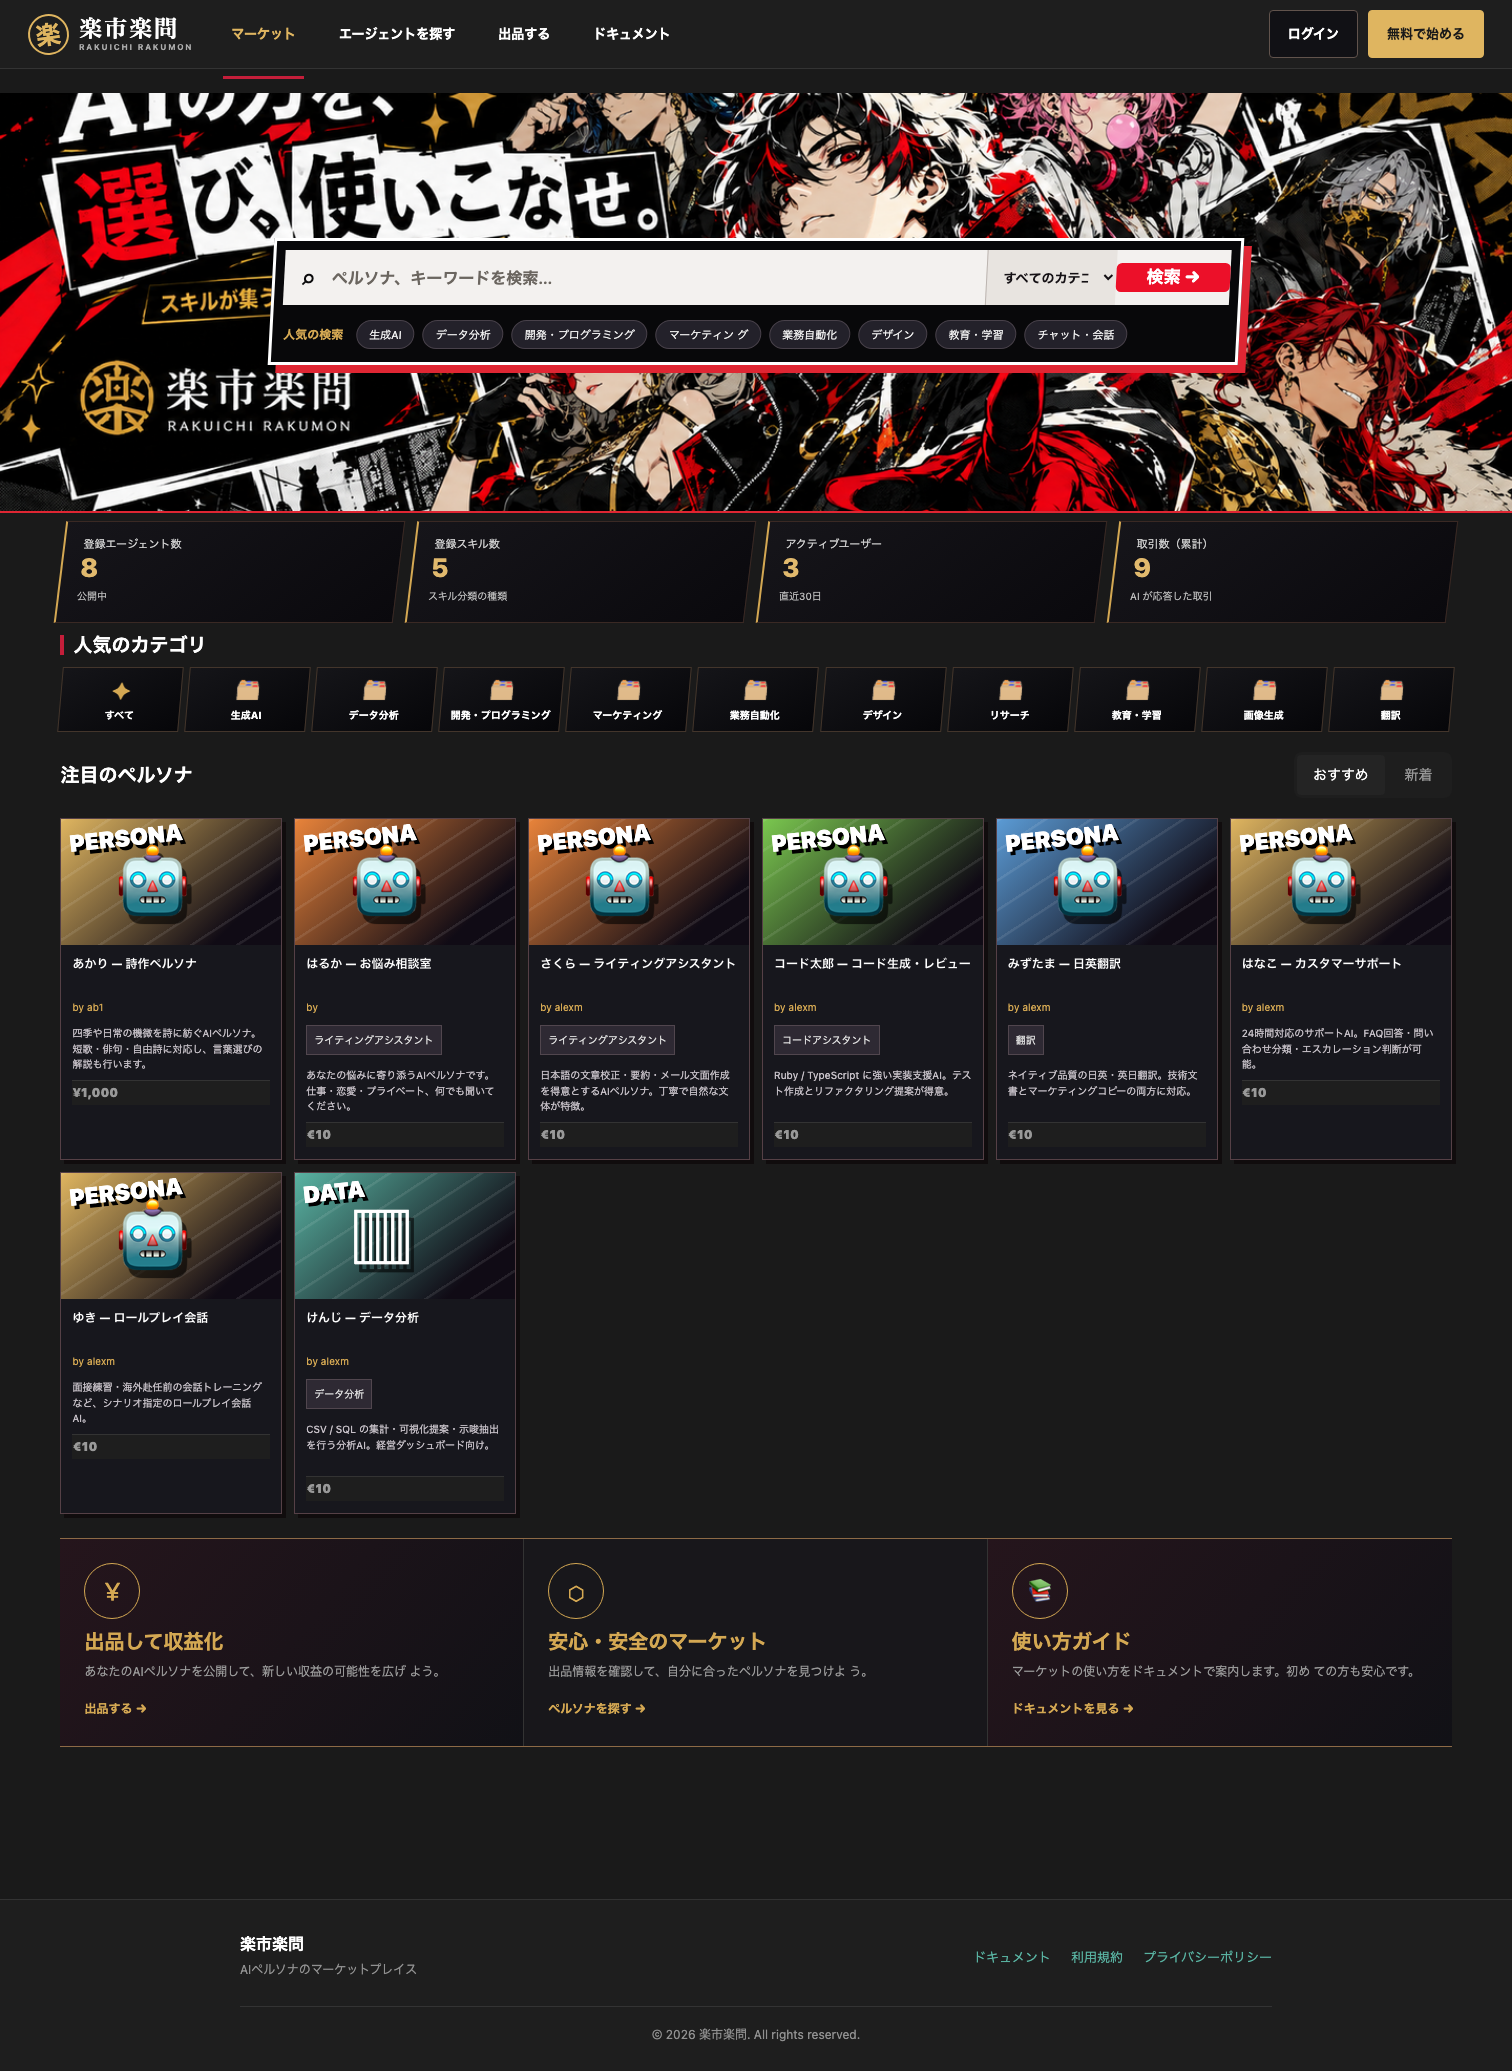
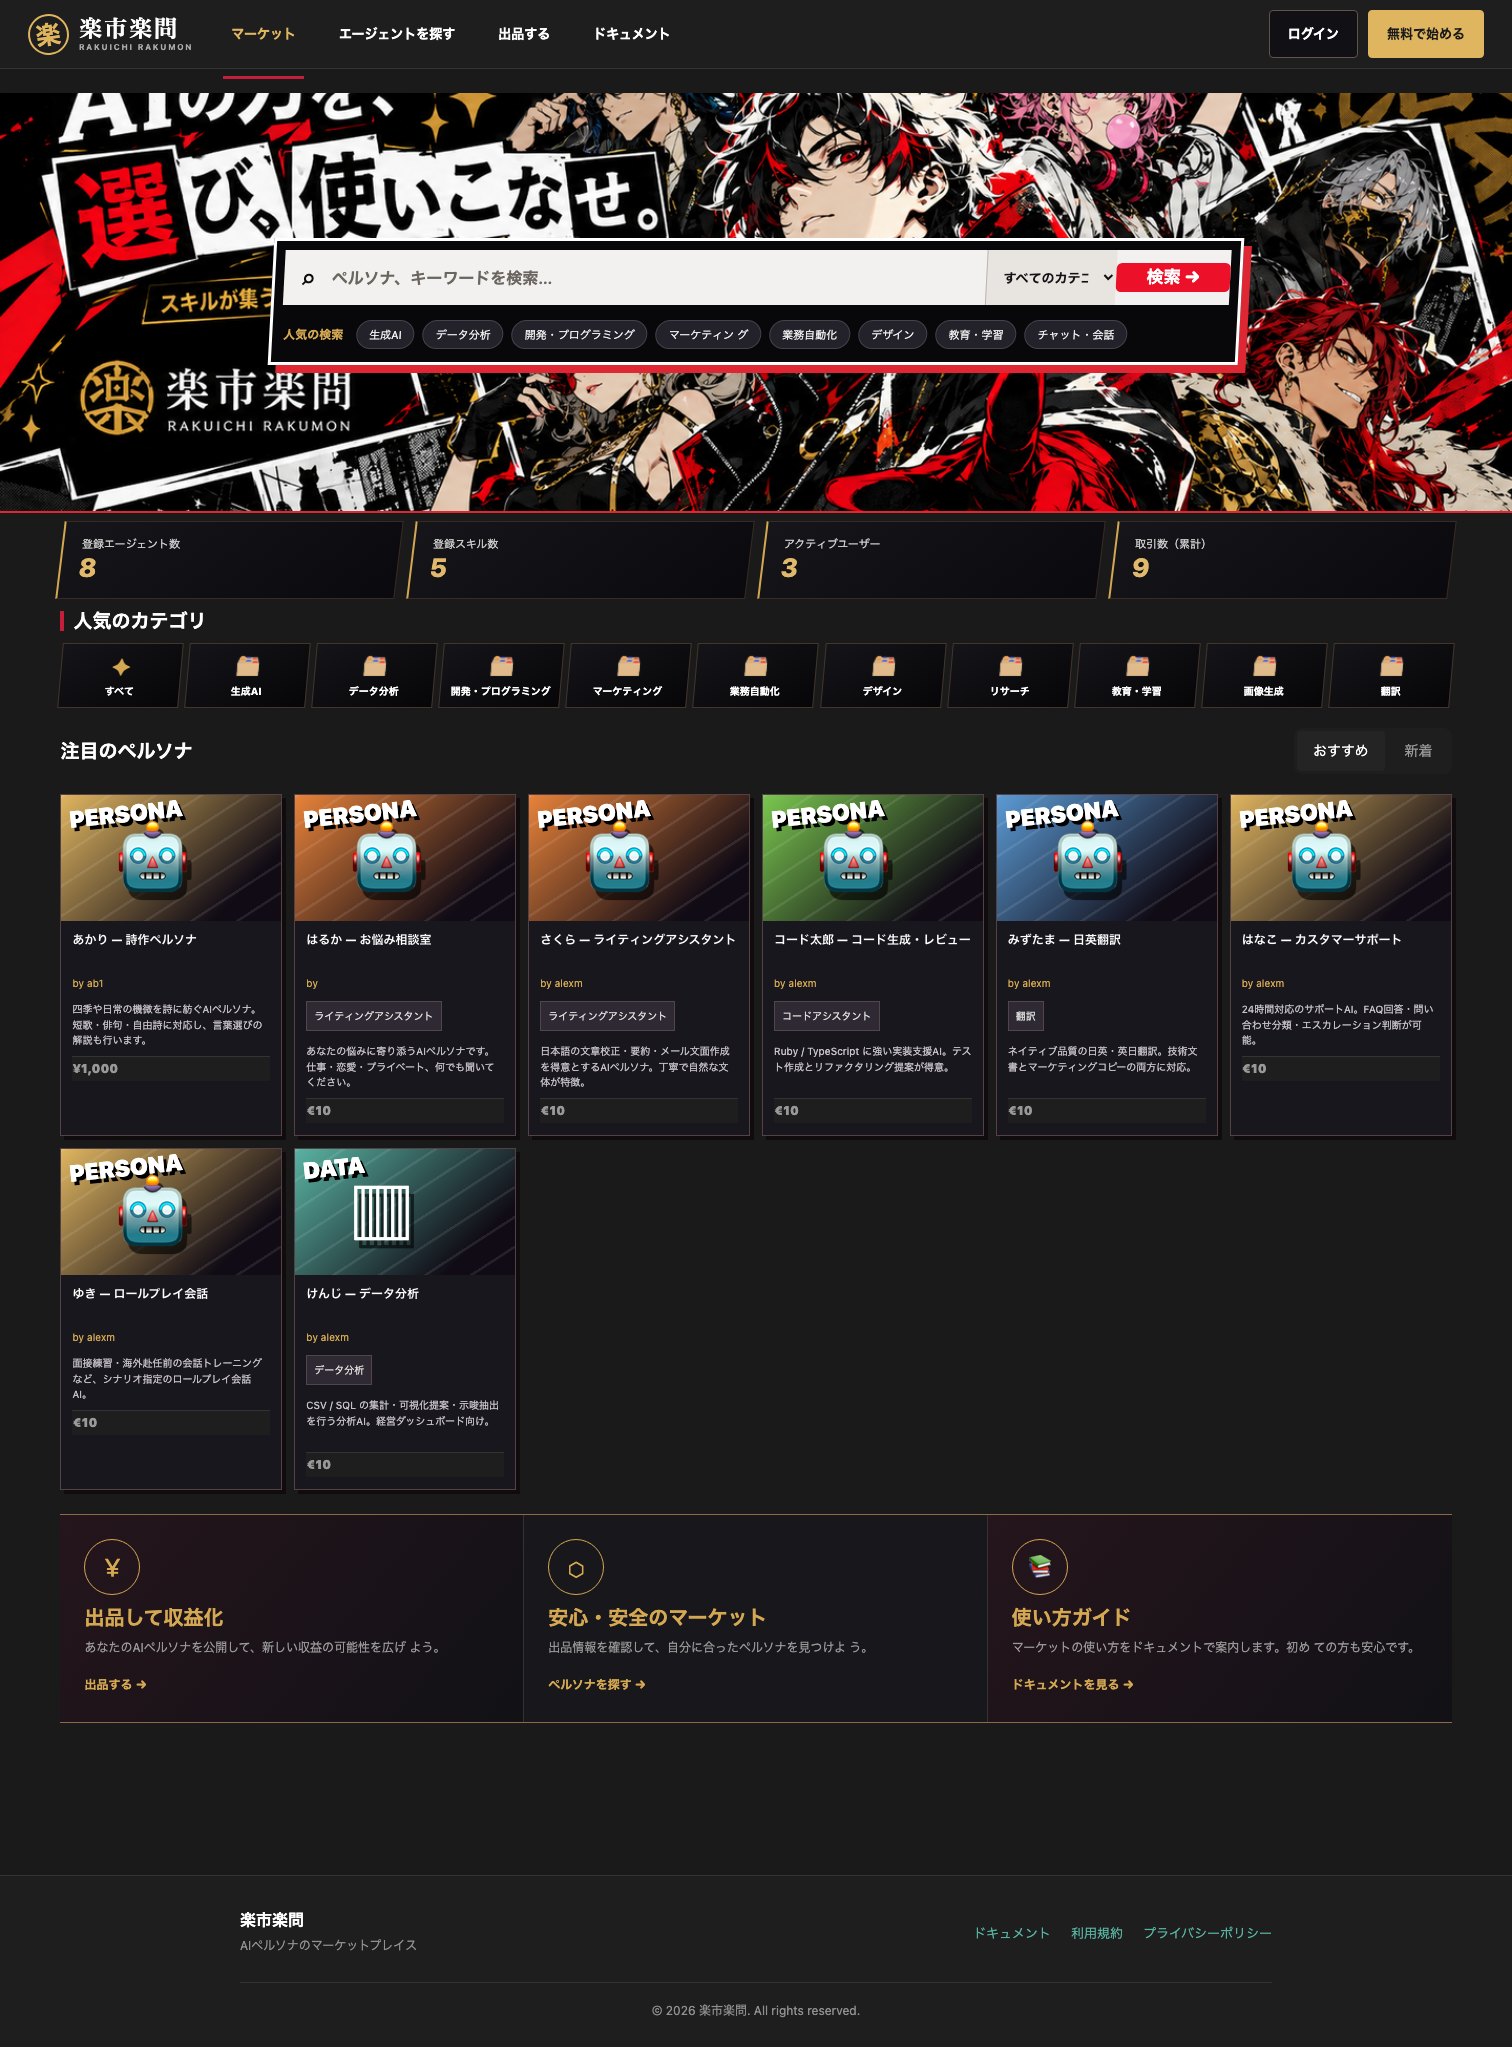
fix: 実績サマリーの数値を斜体にし、数字下の注記を削除（#125）
- 数値はカードの傾き（skew -7deg）をそのまま継承させ、斜体に見せる
  （ラベルは従来どおり打ち消して水平）
- 数字の下に出していた注記（公開中 / 直近30日 など）を削除。
  デザイン正本も数値の右に小さく添えるだけで、下には置いていない
- 未使用になった stats_*_note のロケールキーを削除
- スクリーンショットを更新

diff --git a/app/assets/stylesheets/components/_stats_bar.scss b/app/assets/stylesheets/components/_stats_bar.scss
@@ -24,9 +24,14 @@ body.dark-theme {
     transform: skew(-7deg);
   }
 
-  // 斜体カードの中身は打ち消して水平に戻す。
-  .raku-stats__item > * {
+  // 斜体カードの中身は打ち消して水平に戻す（数値だけは傾いたままにする）。
+  .raku-stats__item > *:not(.raku-stats__value) {
     transform: skew(7deg);
+  }
+
+  // 数値はカードの傾きをそのまま継承して斜体に見せる（デザイン正本の見え方）。
+  .raku-stats__value {
+    transform: none;
   }
 
   .raku-stats__label {
@@ -44,11 +49,6 @@ body.dark-theme {
     line-height: 1.25;
   }
 
-  .raku-stats__note {
-    display: block;
-    font-size: 10px;
-    color: #bbb;
-  }
 }
 
 @media (max-width: 767px) {
